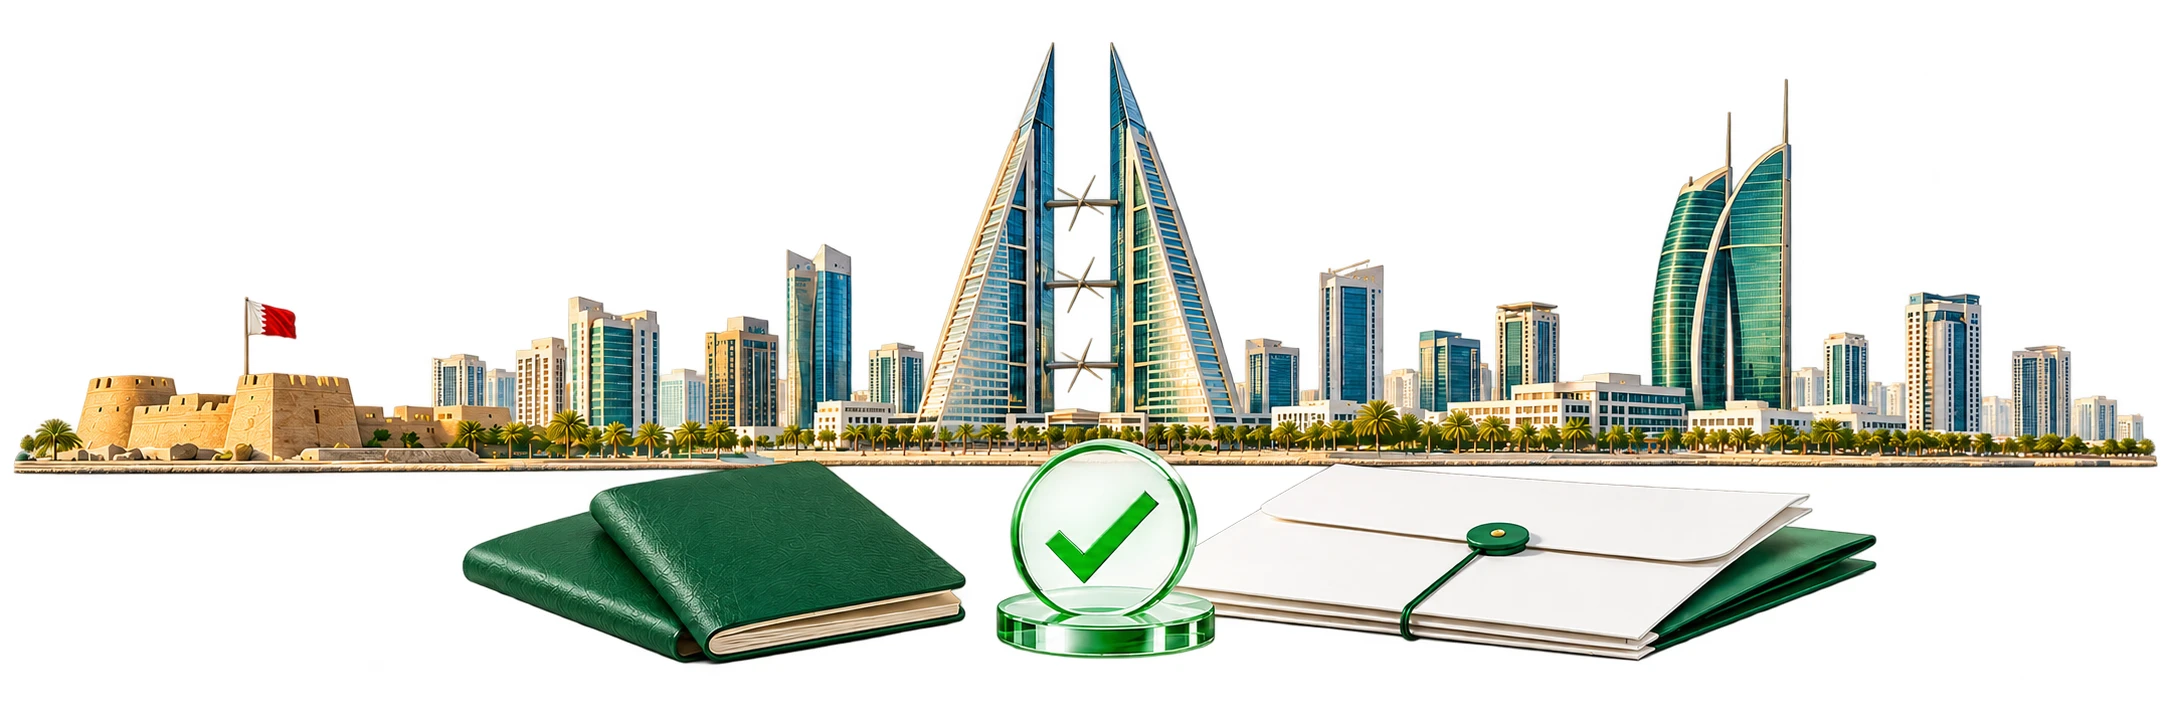
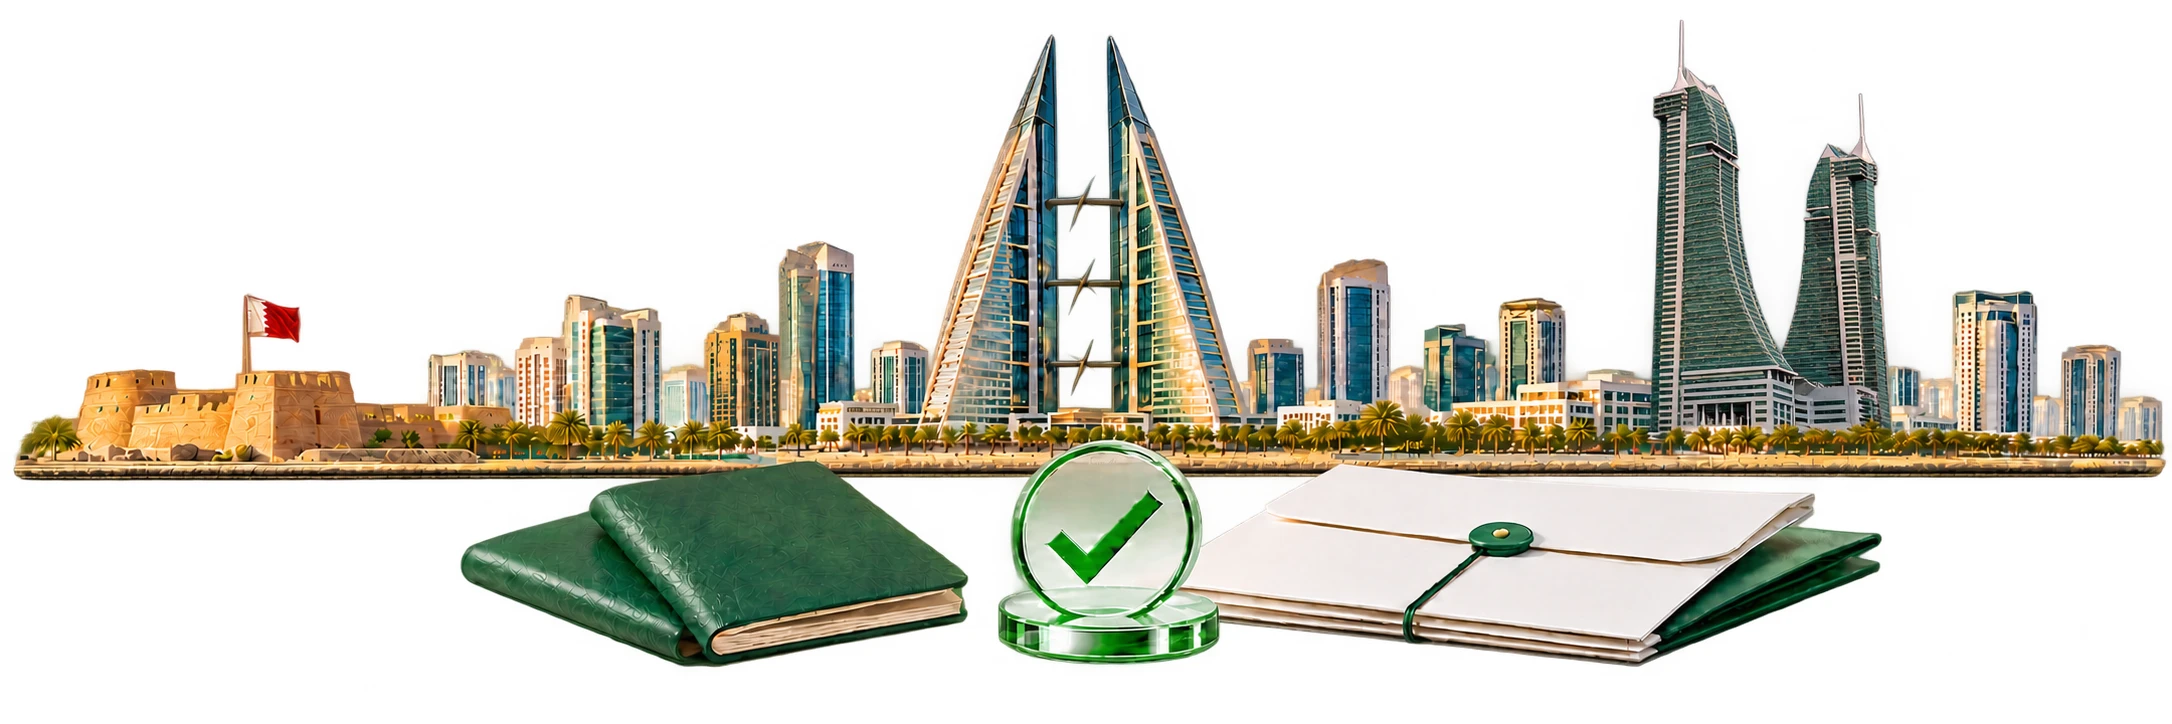
About: updated skyline image with accurate towers
Claude-Session: https://claude.ai/code/session_01Q8SfPFzKec2UT1Fop63zbA

Changed region(s): [[0.0, 0.0608, 1.0, 0.942], [0.5861, 0.6989, 0.6169, 0.7293]]

diff --git a/about-history.html b/about-history.html
@@ -7624,7 +7624,7 @@ input, select, textarea {
         </div>
       </div>
       <div class="ab40-people">
-        <img src="assets/about-skyline-docs.webp" alt="Bahrain skyline with passports, a green approval check and document folder" width="2172" height="724" fetchpriority="high" decoding="async">
+        <img src="assets/about-skyline-docs.webp?v=2" alt="Bahrain skyline with passports, a green approval check and document folder" width="2172" height="724" fetchpriority="high" decoding="async">
       </div>
     </section>
     <!-- OVERVIEW -->

diff --git a/about.html b/about.html
@@ -7606,7 +7606,7 @@ input, select, textarea {
         </div>
       </div>
       <div class="ab40-people">
-        <img src="assets/about-skyline-docs.webp" alt="Bahrain skyline with passports, a green approval check and document folder" width="2172" height="724" fetchpriority="high" decoding="async">
+        <img src="assets/about-skyline-docs.webp?v=2" alt="Bahrain skyline with passports, a green approval check and document folder" width="2172" height="724" fetchpriority="high" decoding="async">
       </div>
     </section>
     <!-- OVERVIEW -->
